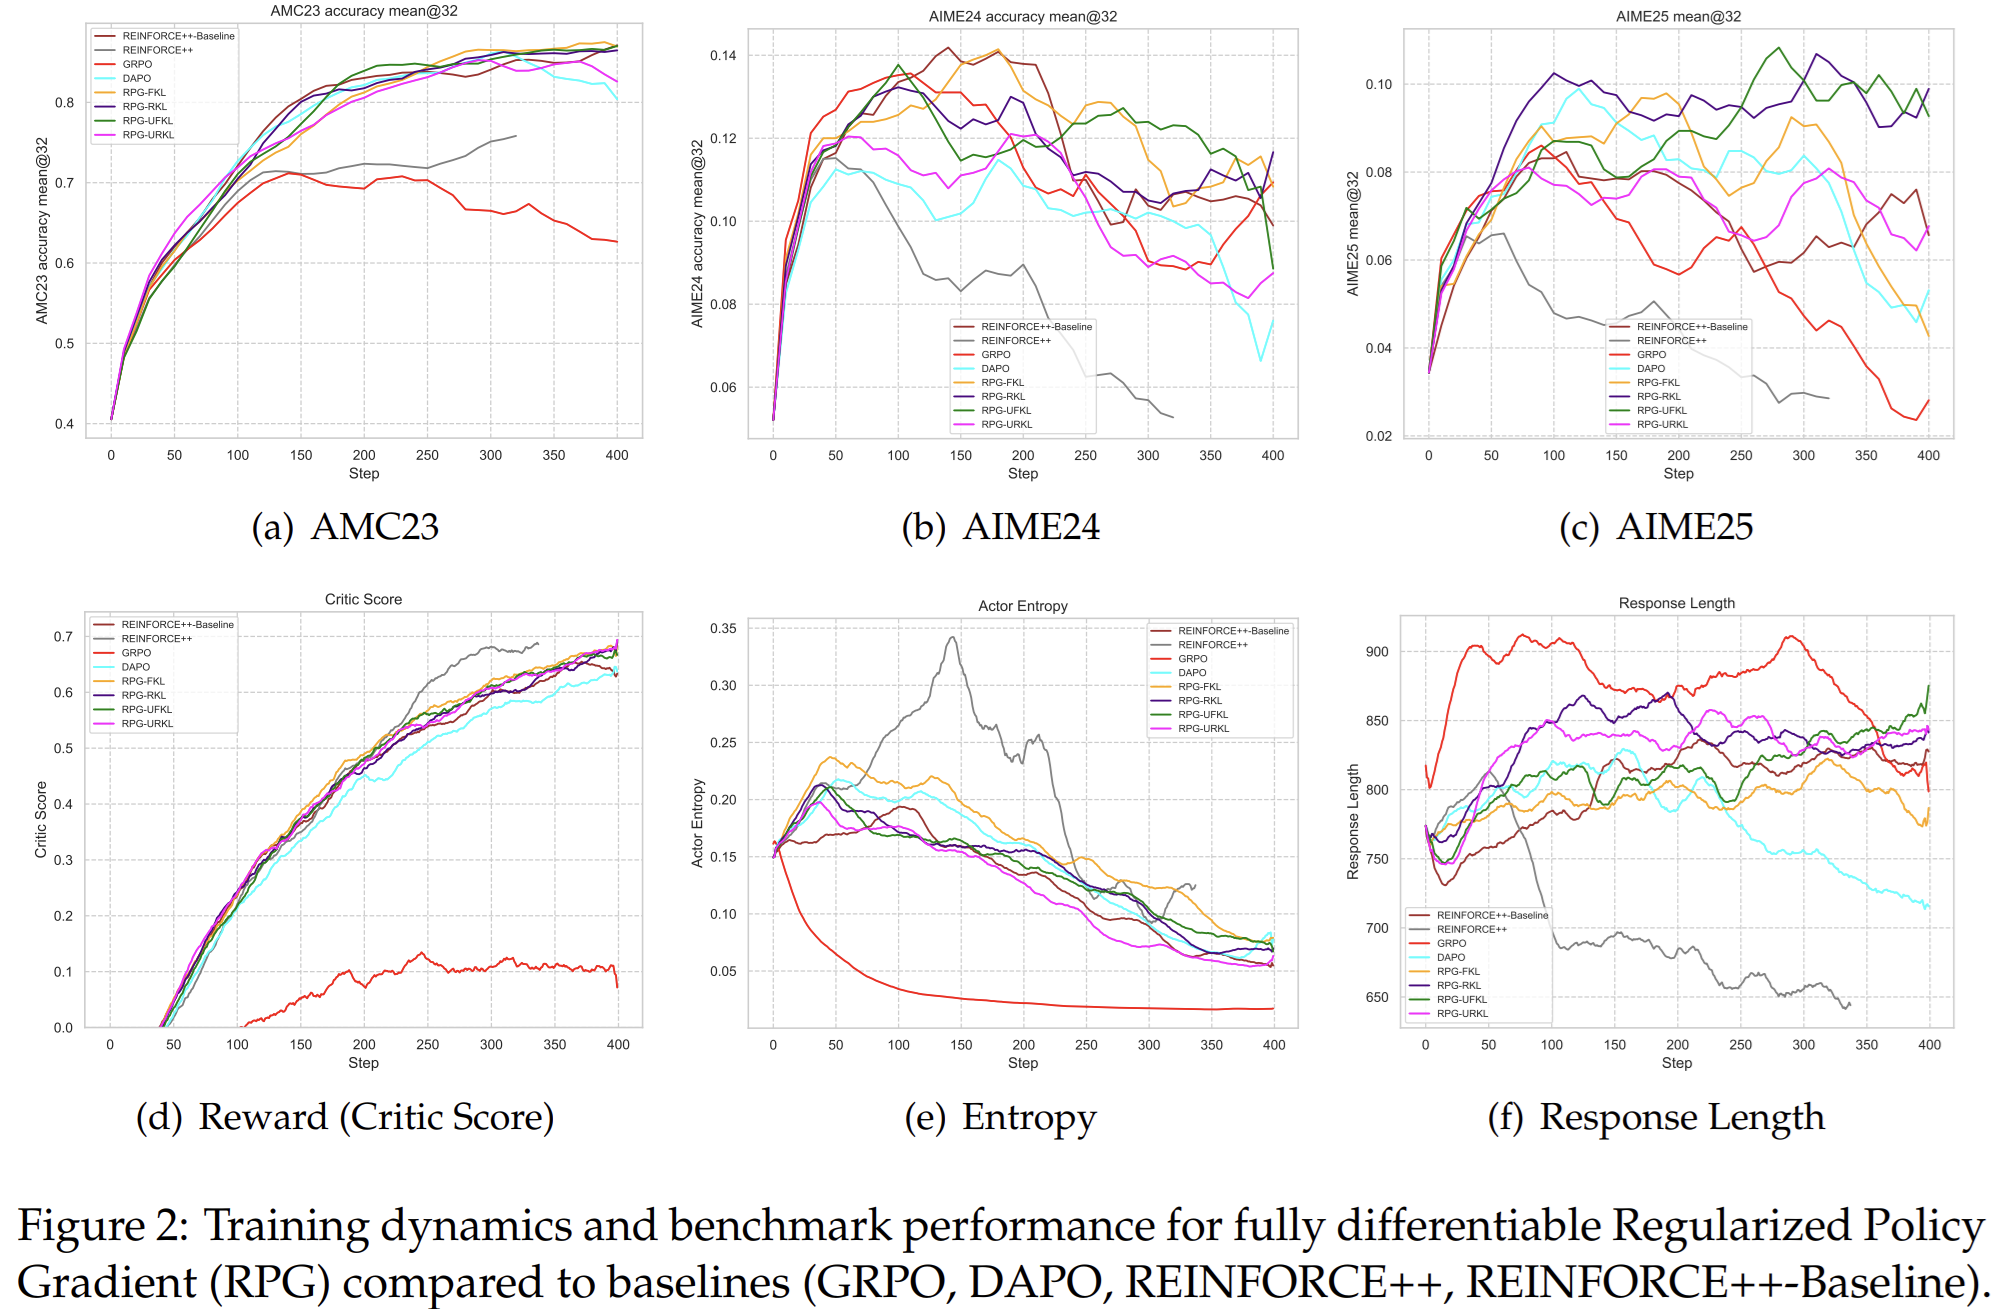
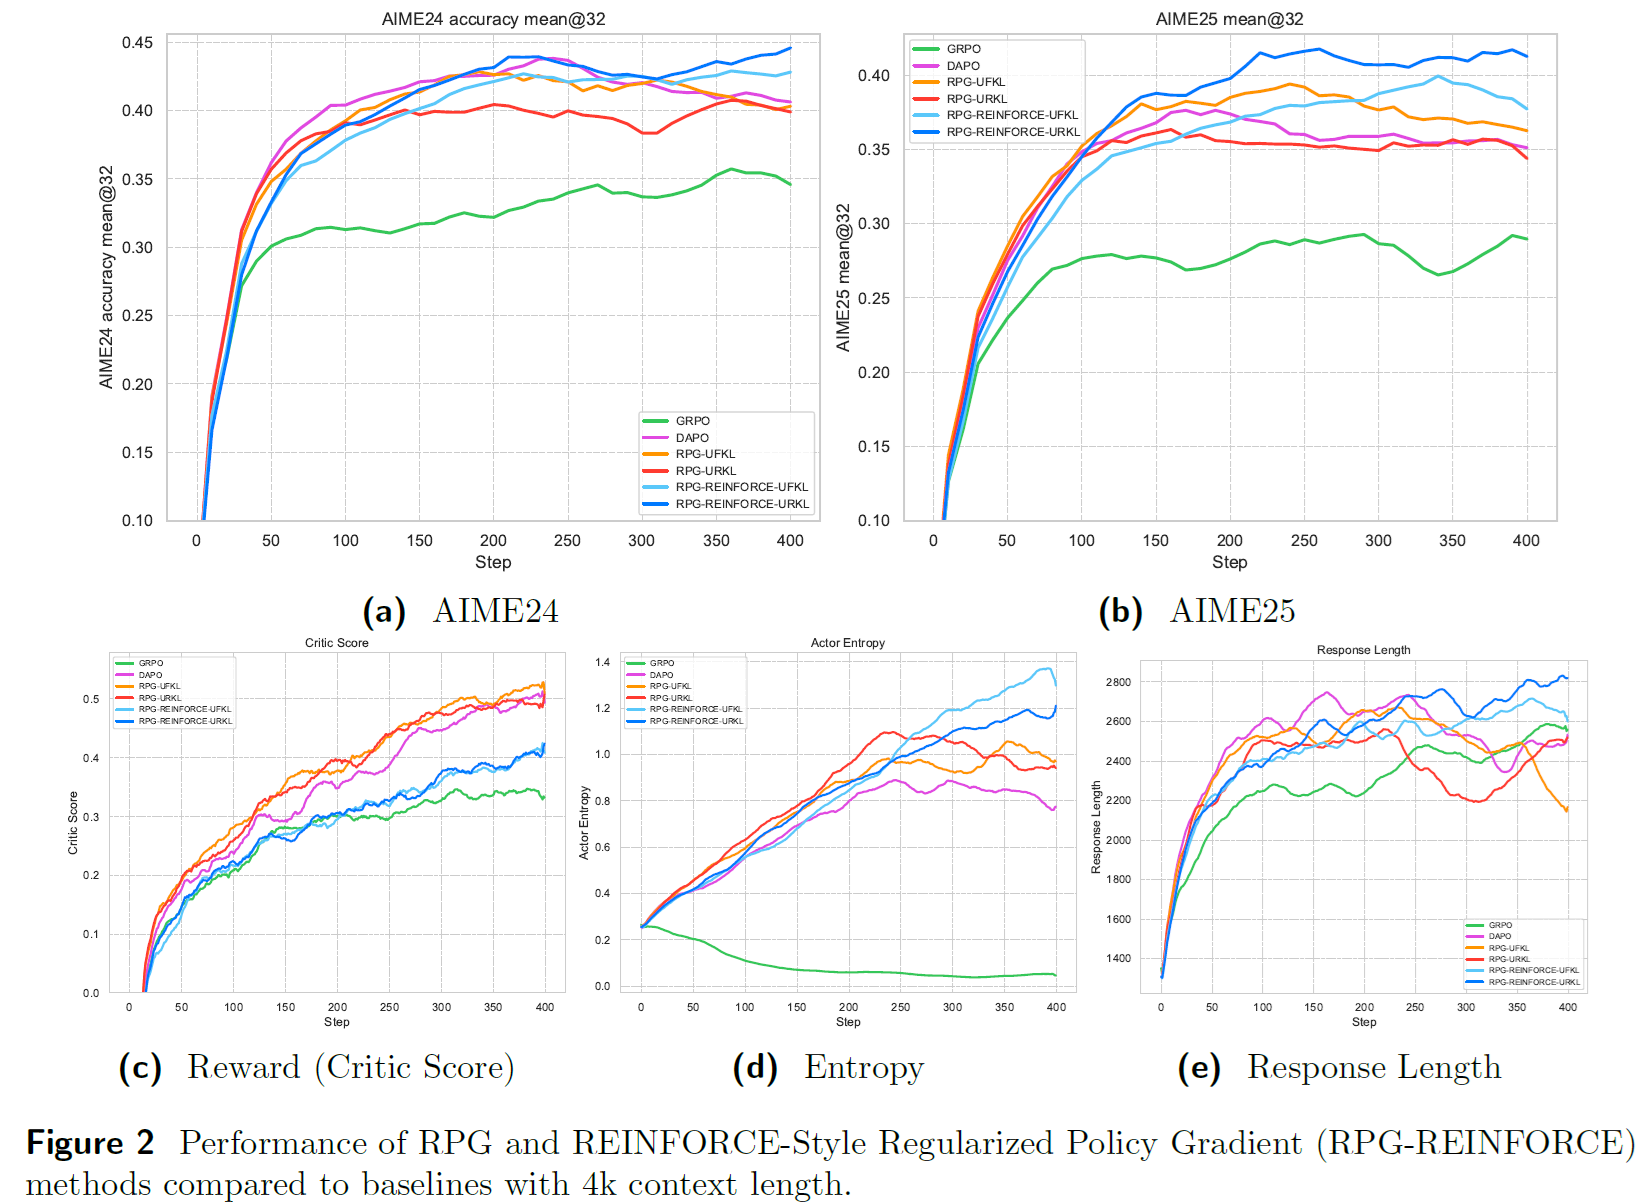
update v2

diff --git a/index.html b/index.html
@@ -189,10 +189,19 @@
         <h4 class="title">Experimental Results</h4>
         <figure>
             <p align="center">
-                <img src="static/images/table3.png" width="800" height="800" alt="The evaluation results of pretrained medium-size models (353M)"/>
+                <img src="static/images/table3.png" width="800" height="800" alt="4K context length results"/>
             </p>
             <figcaption align="center">
-                Combined performance metrics on the AMC23, AIME24, and AIME25 mathematical reasoning benchmarks, showing "Last" and "Best" scores. 
+                Combined performance metrics on the AIME24 and AIME25 mathematical reasoning benchmarks, showing "Last" and "Best" scores for 4K context length. 
+                The "Last" score is from the 400th training step, assuming the training process remained stable to that point. 
+                The highest score in each column is <b>bolded</b>, and the second highest is <span style="text-decoration:underline;">underlined</span>. 
+                RPG and RPG-REINFORCE methods are highlighted with light cyan and light green backgrounds, respectively.
+            </figcaption>
+          <p align="center">
+                <img src="static/images/table5.png" width="800" height="800" alt="2K context length results"/>
+            </p>
+             <figcaption align="center">
+                Combined performance metrics on the AIME24 and AIME25 mathematical reasoning benchmarks, showing "Last" and "Best" scores for 2K context length. 
                 The "Last" score is from the 400th training step, assuming the training process remained stable to that point. 
                 The highest score in each column is <b>bolded</b>, and the second highest is <span style="text-decoration:underline;">underlined</span>. 
                 RPG and RPG-REINFORCE methods are highlighted with light cyan and light green backgrounds, respectively.
@@ -203,7 +212,7 @@
               <img src="static/images/figure2.png" width="900" height="600" alt="Training loss plot"/>
             </p>
             <figcaption align="center">
-              Training dynamics and benchmark performance for fully differentiable Regularized Policy Gradient (RPG) compared to baselines (GRPO, DAPO, REINFORCE++, REINFORCE++-Baseline).
+              Training dynamics and benchmark performance for RPG and REINFORCE-style RPG compared to baselines (GRPO, DAPO) with 4K context length.
             </figcaption>
           </figure>
         <figure>
@@ -211,7 +220,7 @@
             <img src="static/images/figure3.png" width="900" height="600" alt="Validation loss plot"/>
           </p>
           <figcaption align="center">
-            Performance of REINFORCE-Style Regularized Policy Gradient (RPG-REINFORCE) methods compared to baselines. Plots display accuracy on mathematical reasoning benchmarks (AMC23, AIME24, AIME25) and key training dynamics (reward, policy entropy, response length).
+            Training dynamics and benchmark performance for RPG and REINFORCE-style RPG compared to baselines (GRPO, DAPO) with 2K context length.
           </figcaption>
         </figure>
       </div>
